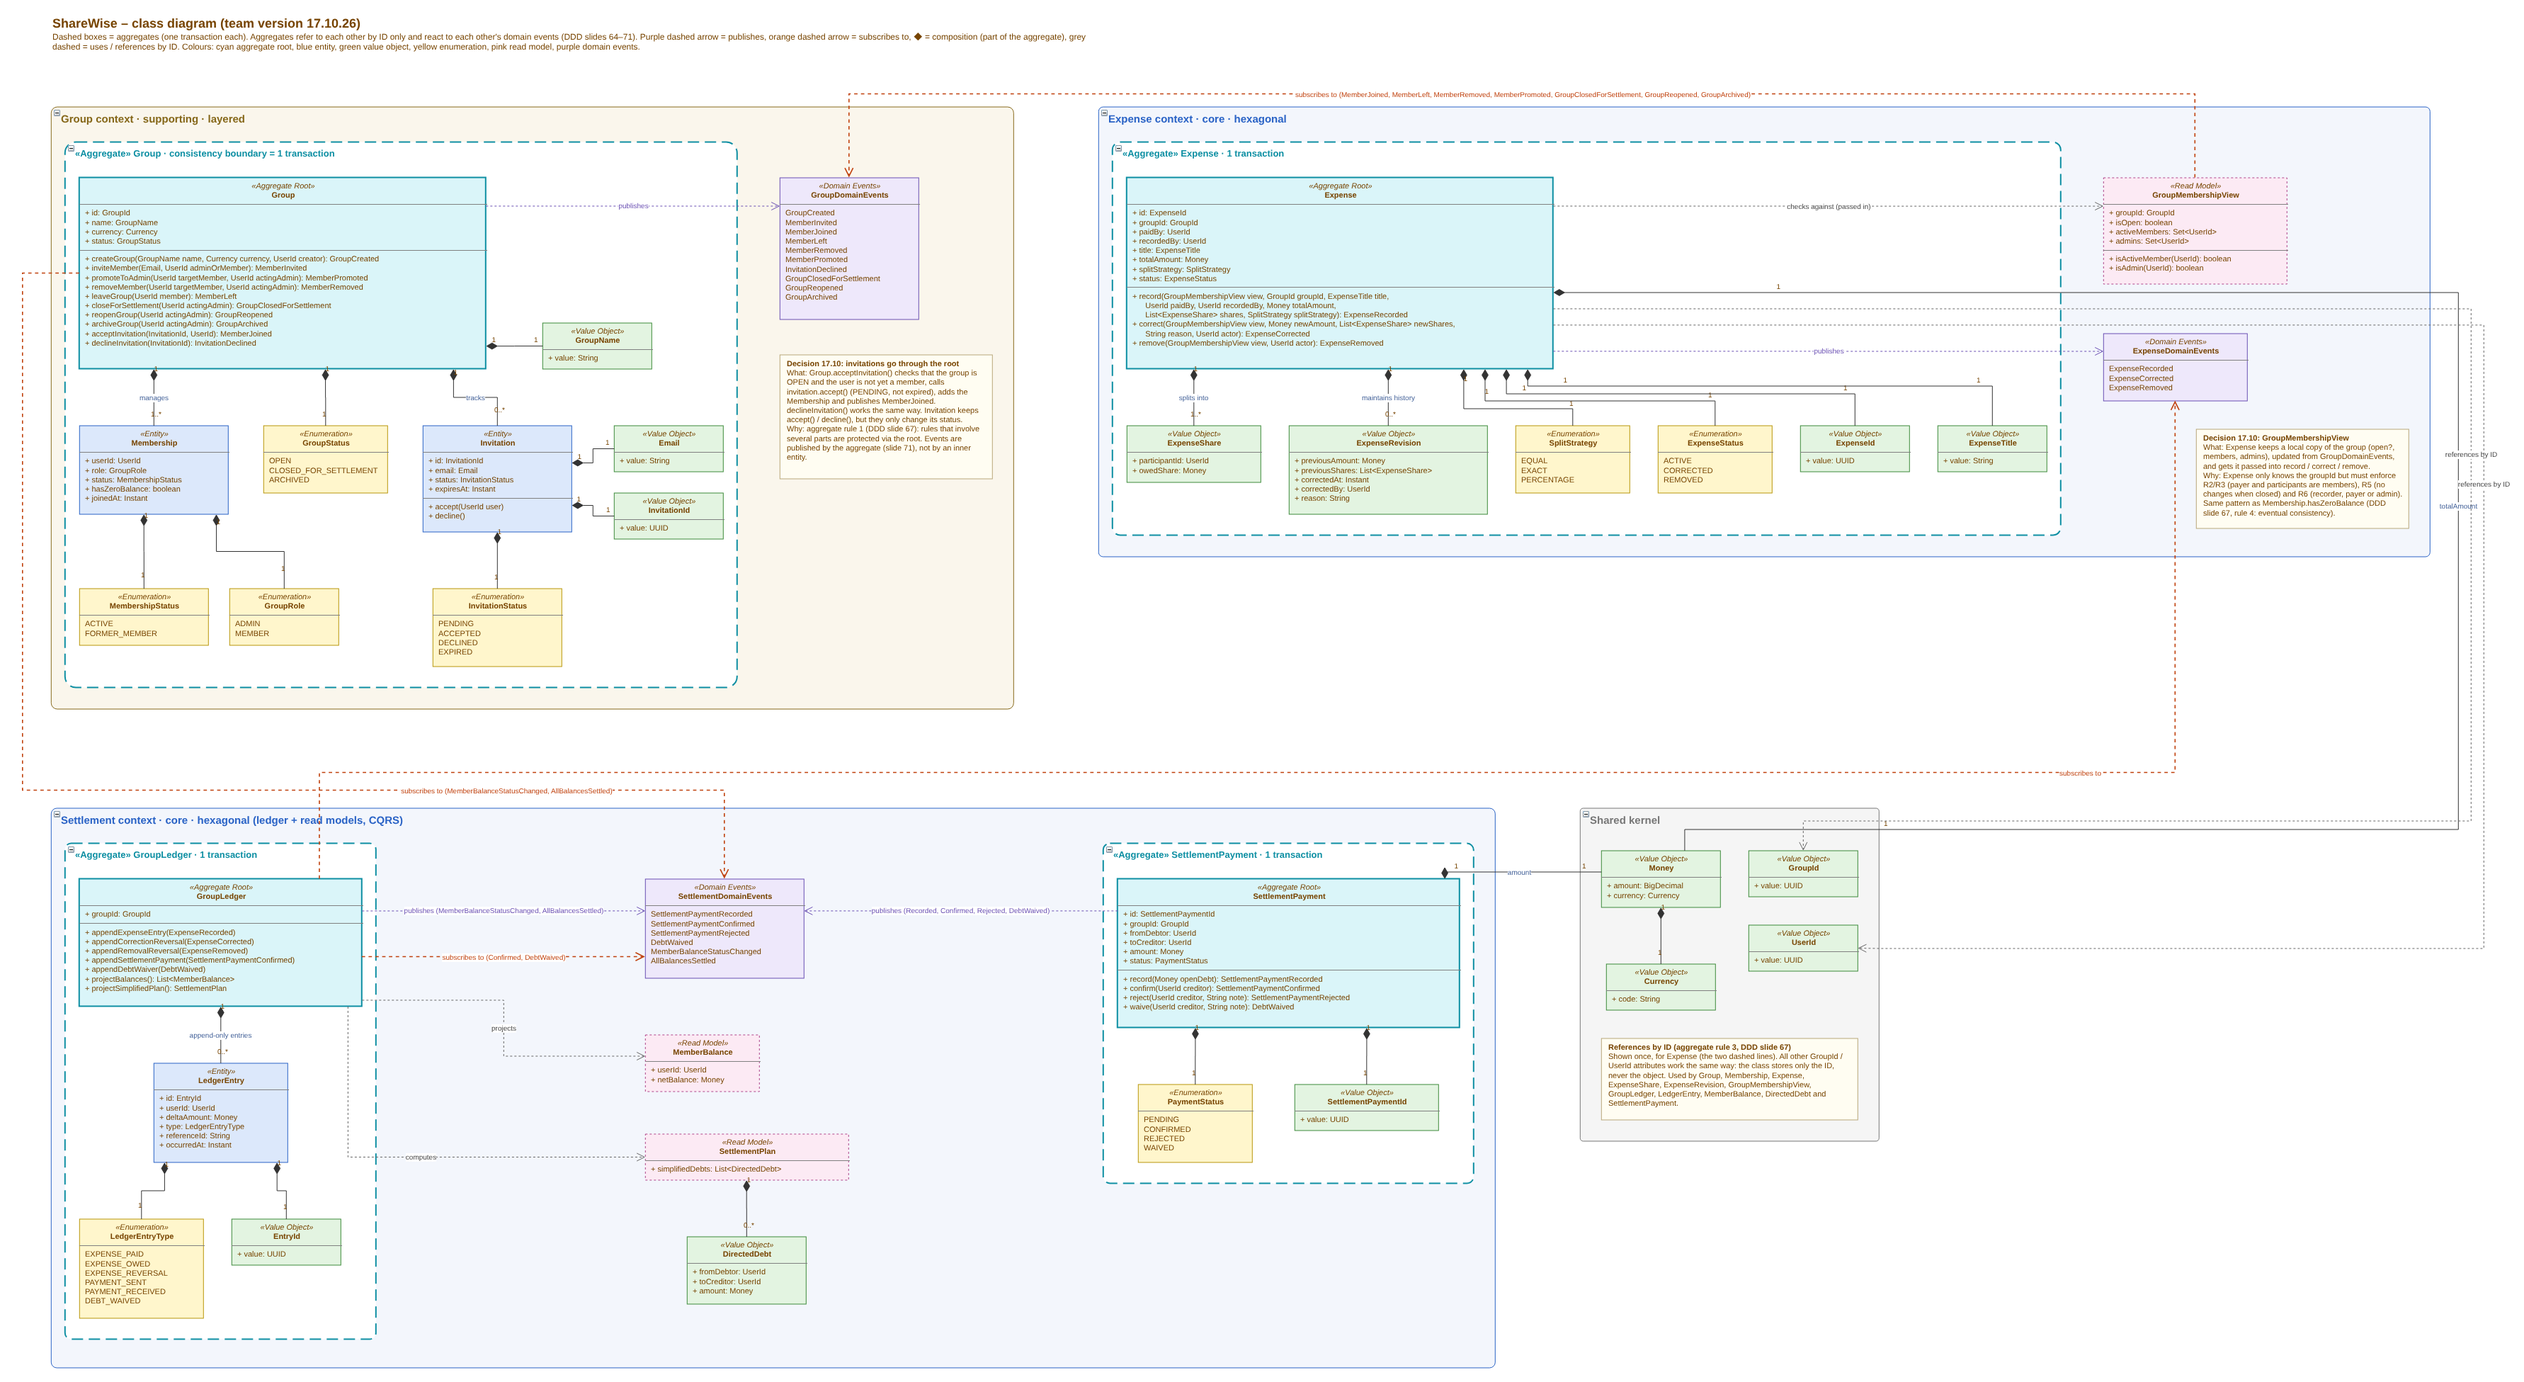
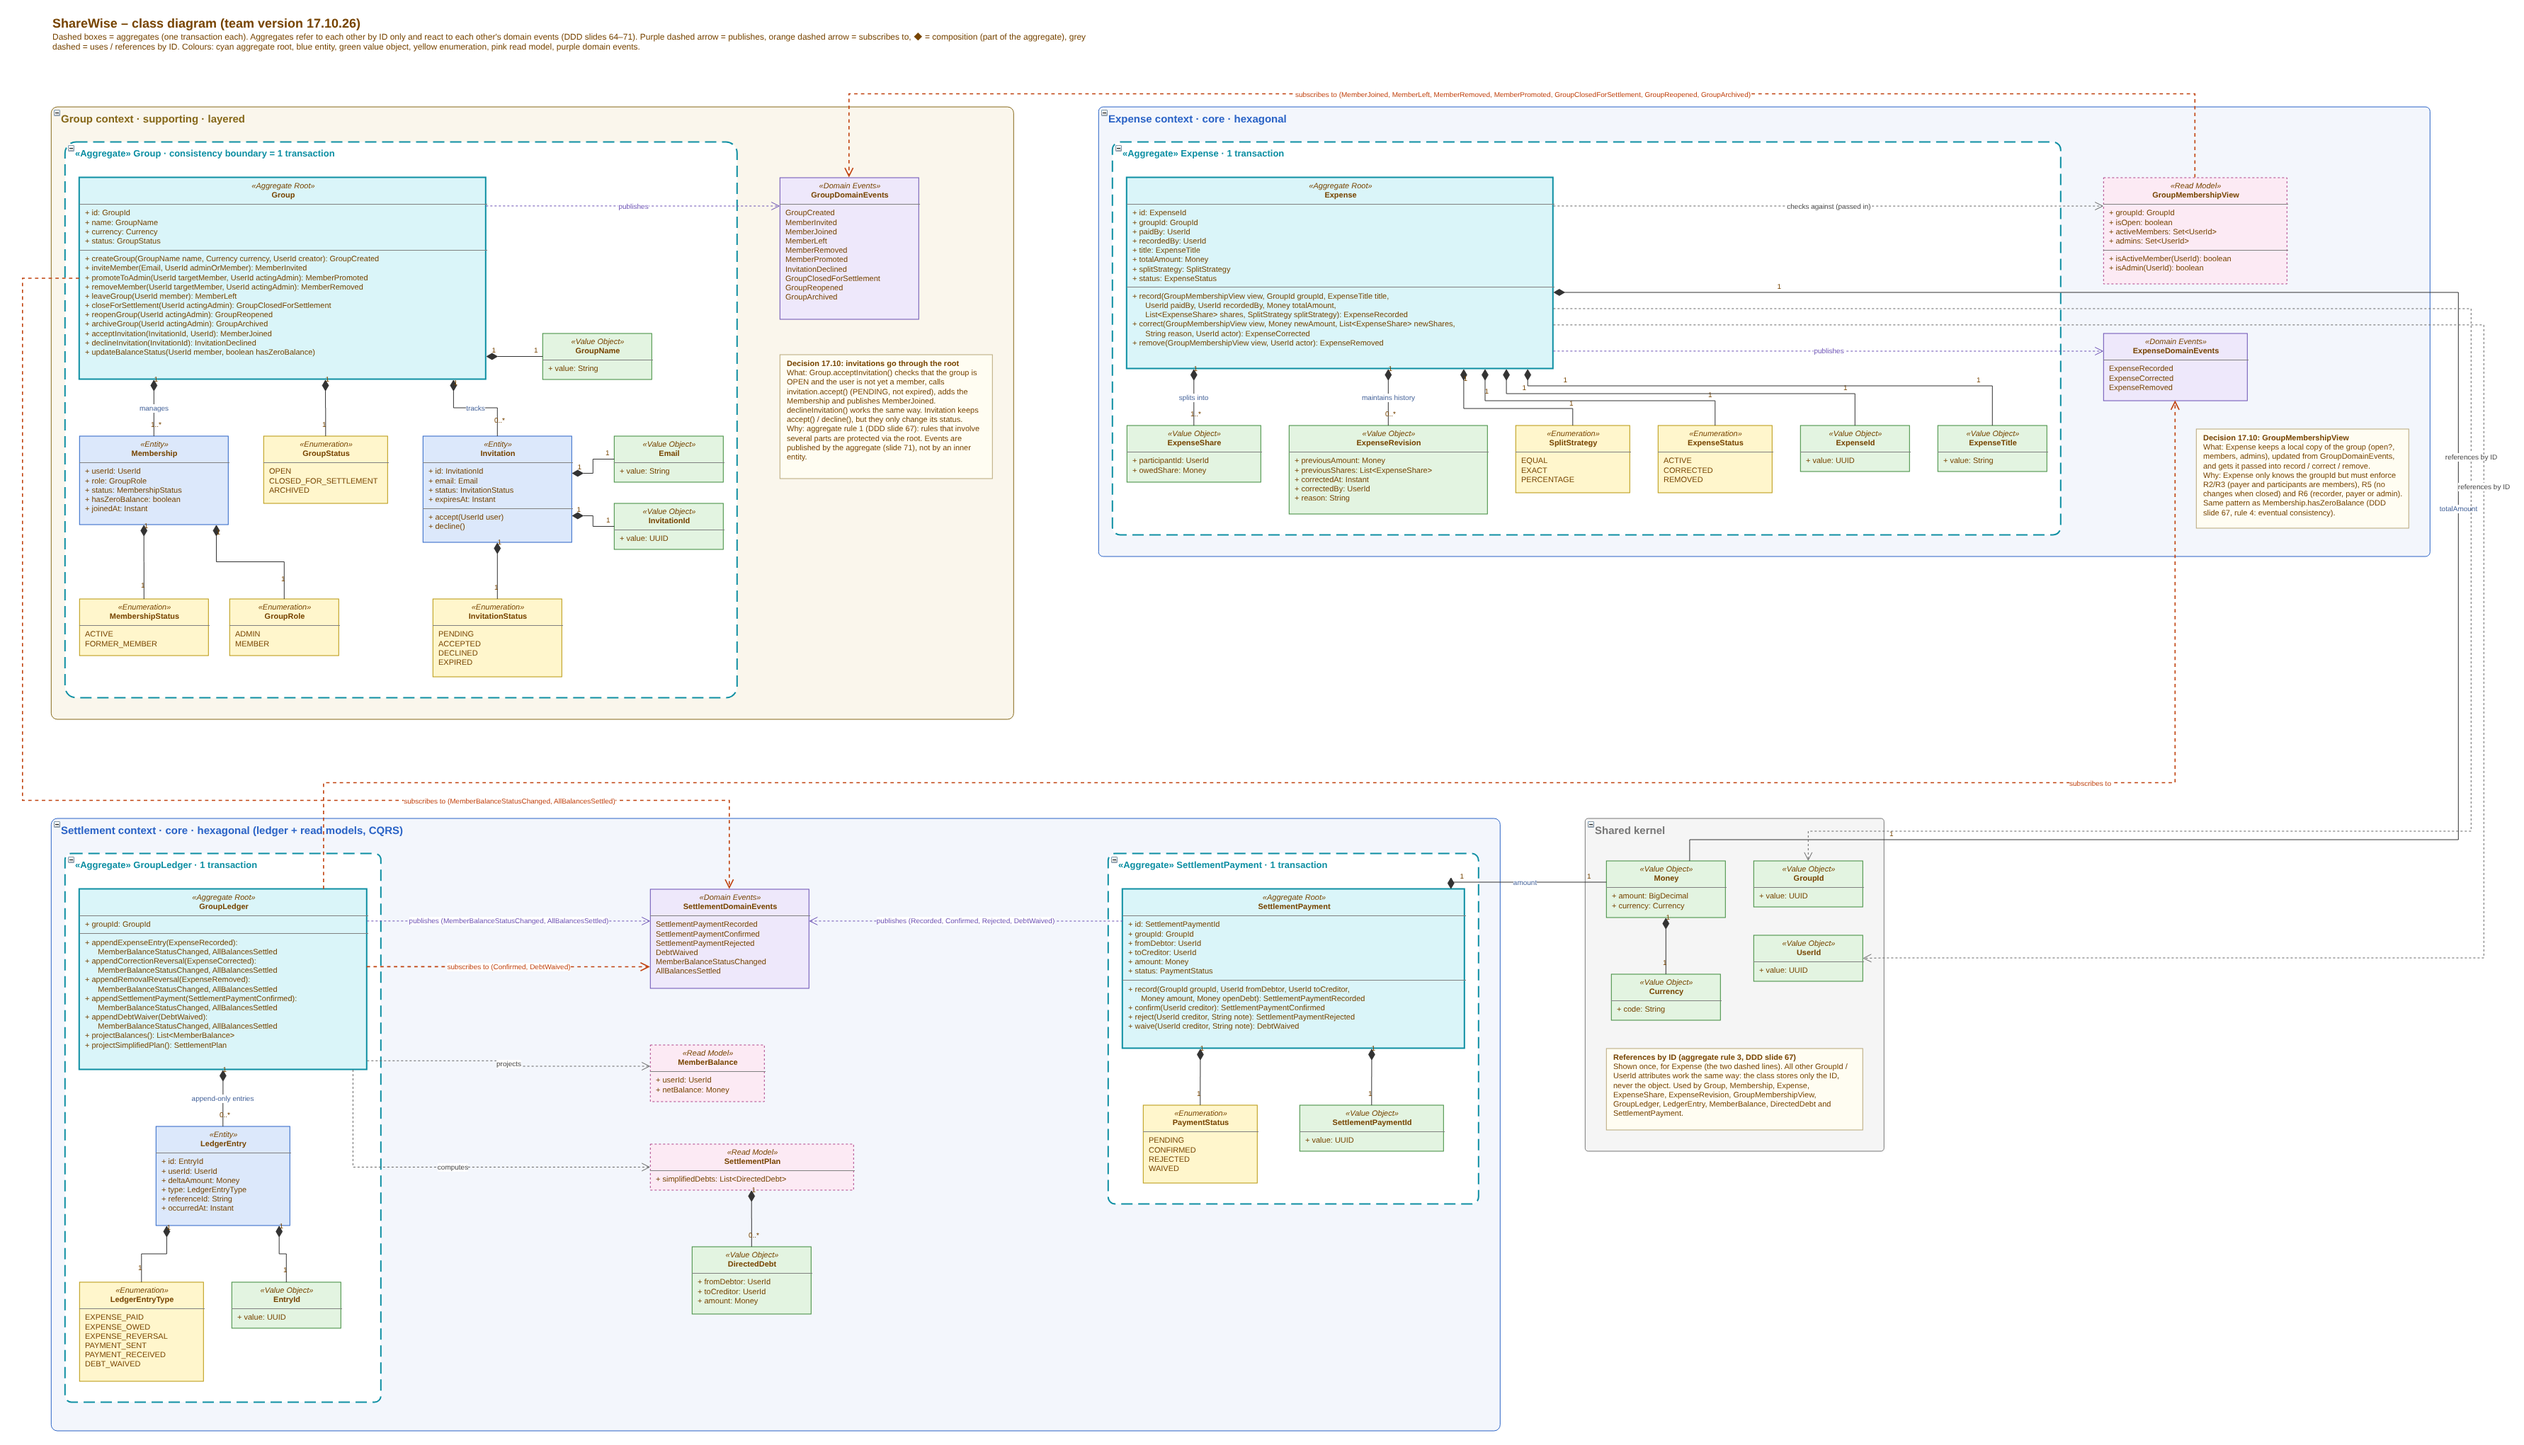
Domain model: events raised by GroupLedger, Group.updateBalanceStatus, full SettlementPayment.record
- GroupLedger append methods return MemberBalanceStatusChanged and
  AllBalancesSettled, so every published event has a method raising it.
- Group.updateBalanceStatus(UserId, boolean) handles its subscription.
- SettlementPayment.record takes groupId, debtor, creditor, amount, openDebt.
- Team notes: these three under 'Changed'; parts-as-attributes added as
  open point 4.

Claude-Session: https://claude.ai/code/session_01XWcDcA4MpQE7WFgrEA8CzJ

diff --git a/work/tools/gen_team_diagram.py b/work/tools/gen_team_diagram.py
@@ -21,7 +21,8 @@ C = {
                "+ reopenGroup(UserId actingAdmin): GroupReopened",
                "+ archiveGroup(UserId actingAdmin): GroupArchived",
                "+ acceptInvitation(InvitationId, UserId): MemberJoined",
-               "+ declineInvitation(InvitationId): InvitationDeclined"]),
+               "+ declineInvitation(InvitationId): InvitationDeclined",
+               "+ updateBalanceStatus(UserId member, boolean hasZeroBalance)"]),
     "Membership": ("entity", ["+ userId: UserId", "+ role: GroupRole", "+ status: MembershipStatus",
                               "+ hasZeroBalance: boolean", "+ joinedAt: Instant"], []),
     "Invitation": ("entity", ["+ id: InvitationId", "+ email: Email", "+ status: InvitationStatus", "+ expiresAt: Instant"],
@@ -54,9 +55,17 @@ C = {
                             ["+ isActiveMember(UserId): boolean", "+ isAdmin(UserId): boolean"]),
     # Settlement context (core)
     "GroupLedger": ("root", ["+ groupId: GroupId"],
-                    ["+ appendExpenseEntry(ExpenseRecorded)", "+ appendCorrectionReversal(ExpenseCorrected)",
-                     "+ appendRemovalReversal(ExpenseRemoved)", "+ appendSettlementPayment(SettlementPaymentConfirmed)",
-                     "+ appendDebtWaiver(DebtWaived)", "+ projectBalances(): List<MemberBalance>",
+                    ["+ appendExpenseEntry(ExpenseRecorded):",
+                     "      MemberBalanceStatusChanged, AllBalancesSettled",
+                     "+ appendCorrectionReversal(ExpenseCorrected):",
+                     "      MemberBalanceStatusChanged, AllBalancesSettled",
+                     "+ appendRemovalReversal(ExpenseRemoved):",
+                     "      MemberBalanceStatusChanged, AllBalancesSettled",
+                     "+ appendSettlementPayment(SettlementPaymentConfirmed):",
+                     "      MemberBalanceStatusChanged, AllBalancesSettled",
+                     "+ appendDebtWaiver(DebtWaived):",
+                     "      MemberBalanceStatusChanged, AllBalancesSettled",
+                     "+ projectBalances(): List<MemberBalance>",
                      "+ projectSimplifiedPlan(): SettlementPlan"]),
     "LedgerEntry": ("entity", ["+ id: EntryId", "+ userId: UserId", "+ deltaAmount: Money", "+ type: LedgerEntryType",
                                "+ referenceId: String", "+ occurredAt: Instant"], []),
@@ -67,7 +76,8 @@ C = {
     "DirectedDebt": ("vo", ["+ fromDebtor: UserId", "+ toCreditor: UserId", "+ amount: Money"], []),
     "SettlementPayment": ("root", ["+ id: SettlementPaymentId", "+ groupId: GroupId", "+ fromDebtor: UserId",
                                    "+ toCreditor: UserId", "+ amount: Money", "+ status: PaymentStatus"],
-                          ["+ record(Money openDebt): SettlementPaymentRecorded",
+                          ["+ record(GroupId groupId, UserId fromDebtor, UserId toCreditor,",
+                           "      Money amount, Money openDebt): SettlementPaymentRecorded",
                            "+ confirm(UserId creditor): SettlementPaymentConfirmed",
                            "+ reject(UserId creditor, String note): SettlementPaymentRejected",
                            "+ waive(UserId creditor, String note): DebtWaived"]),

diff --git a/work/Notes_for_Team.md b/work/Notes_for_Team.md
@@ -29,6 +29,9 @@ Team original: `work/archive/firstdraft_ORIGINAL_team_import.drawio`.
 - **Money without methods** (decided 17.10). The team version had add / subtract / negate / isPositive / isZero. Money now only has `amount: BigDecimal` and `currency: Currency`, as on DDD slide 64. The arithmetic belongs in the code, not in the domain diagram.
 - **`createGroup(GroupName name, Currency currency, UserId creator): GroupCreated`** (decided 17.10). Before, it had no parameters. The creator becomes the first admin (J2).
 - **References by ID: shown once, explained for all** (decided 17.10). The team version drew "references by ID" lines only from Expense (to GroupId and UserId), although 11 classes hold a GroupId or UserId (SettlementPayment, GroupLedger, Membership, LedgerEntry, …). We kept the two Expense lines as the example and added a note in the shared kernel: all other ID attributes work the same way (aggregate rule 3, DDD slide 67). Drawing every line would mean 13+ lines across the whole diagram.
+- **Every event now has a method that raises it** (decided 17.10). GroupLedger's `append…()` methods return `MemberBalanceStatusChanged, AllBalancesSettled`. Before, no method raised these two events, although GroupLedger "publishes" them. (Any booking can move a member's balance to or from 0.)
+- **`Group.updateBalanceStatus(UserId member, boolean hasZeroBalance)`** (decided 17.10). It is the method behind Group's subscription to `MemberBalanceStatusChanged`, and it sets `Membership.hasZeroBalance`. Before, Group subscribed but had no method to handle the event.
+- **`SettlementPayment.record(GroupId groupId, UserId fromDebtor, UserId toCreditor, Money amount, Money openDebt)`** (decided 17.10). Before, it was `record(Money openDebt)`, so debtor, creditor and amount were never passed in. This is the same fix as `createGroup()` and `Expense.record()`.
 - Presentation only: a dashed box per aggregate, colours by type, `name: Type` notation, `List<…>` generics.
 
 ## To decide together
@@ -45,6 +48,13 @@ Team original: `work/archive/firstdraft_ORIGINAL_team_import.drawio`.
      - **(a)** Drop it for the MVP: remove `waive()`, `WAIVED`, `DebtWaived`, `appendDebtWaiver()` and `DEBT_WAIVED`.
      - **(b)** Keep it as a ledger command, e.g. `GroupLedger.waiveDebt(debtor, creditor, amount): DebtWaived`, plus a new rule in the requirements.
      - **(c)** Keep it as is and expect a question about it in P1.
+
+4. **Parts as attributes: list them or not?** At the moment some parts appear as an attribute **and** a ◆ line (Expense `splitStrategy`, `status`; SettlementPlan `simplifiedDebts: List<DirectedDebt>`), others **only** as a ◆ line (Group's members and invitations, Expense's shares and history, GroupLedger's entries). We should make it consistent. Proposal: add the missing lists, since Ex4 needs them anyway:
+   - Group: `members: List<Membership>`, `invitations: List<Invitation>`
+   - Expense: `shares: List<ExpenseShare>`, `history: List<ExpenseRevision>`
+   - GroupLedger: `entries: List<LedgerEntry>`
+
+   The alternative is to remove `simplifiedDebts`, `splitStrategy` and `status` and rely on the lines only (UML allows both).
 
 ## Decided, no action
 - **No `date` on Expense.** It isn't on the slides: slide 64 gives Expense exactly id, groupId, paidBy, amount, splitStrategy, status.
